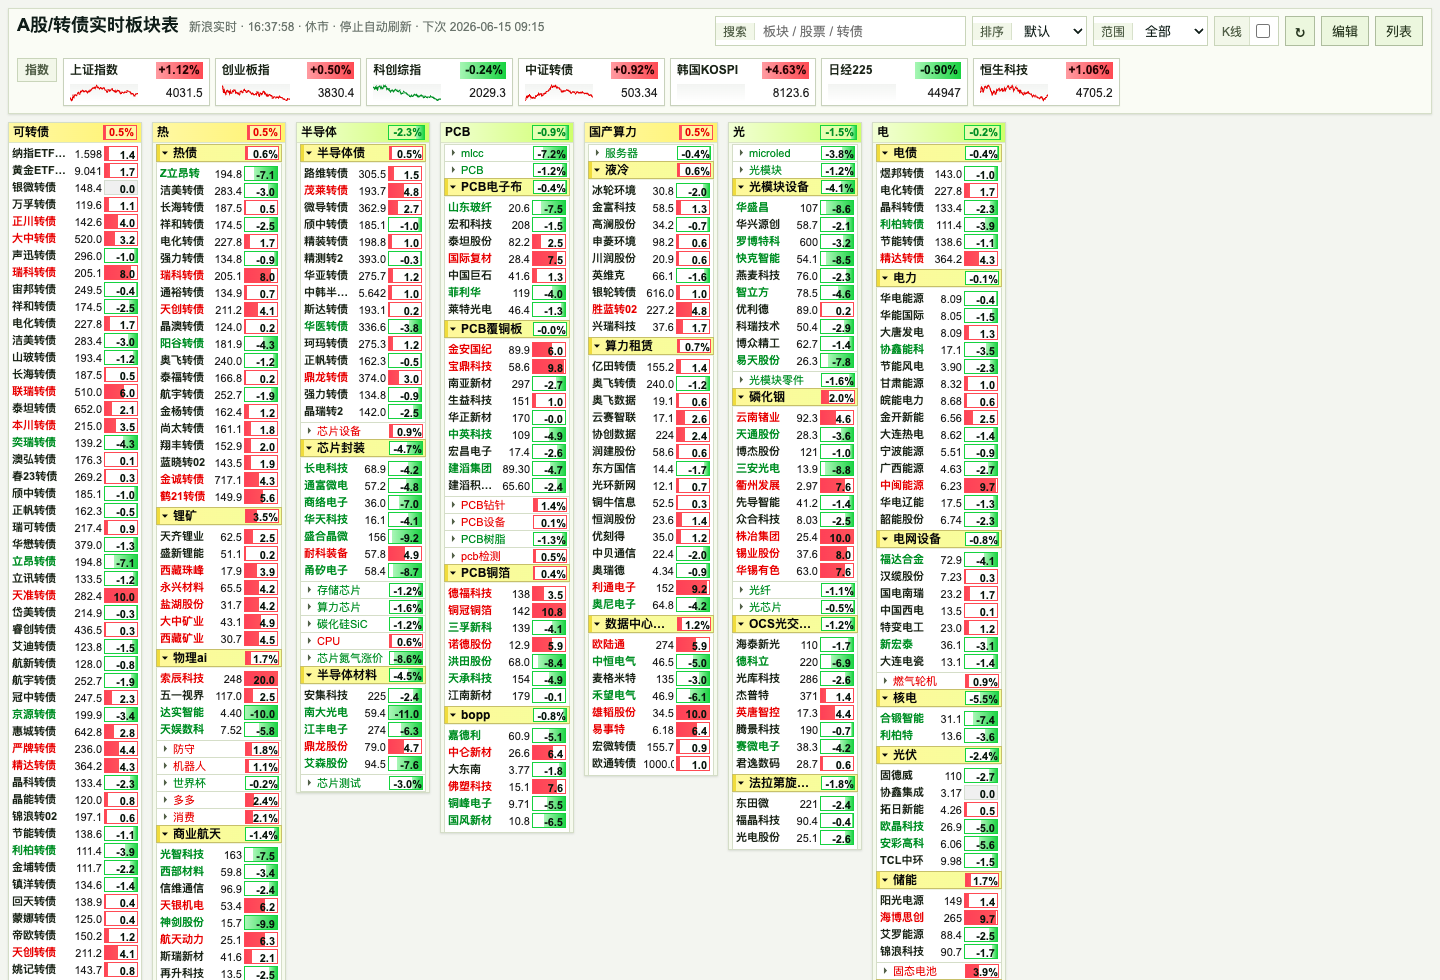
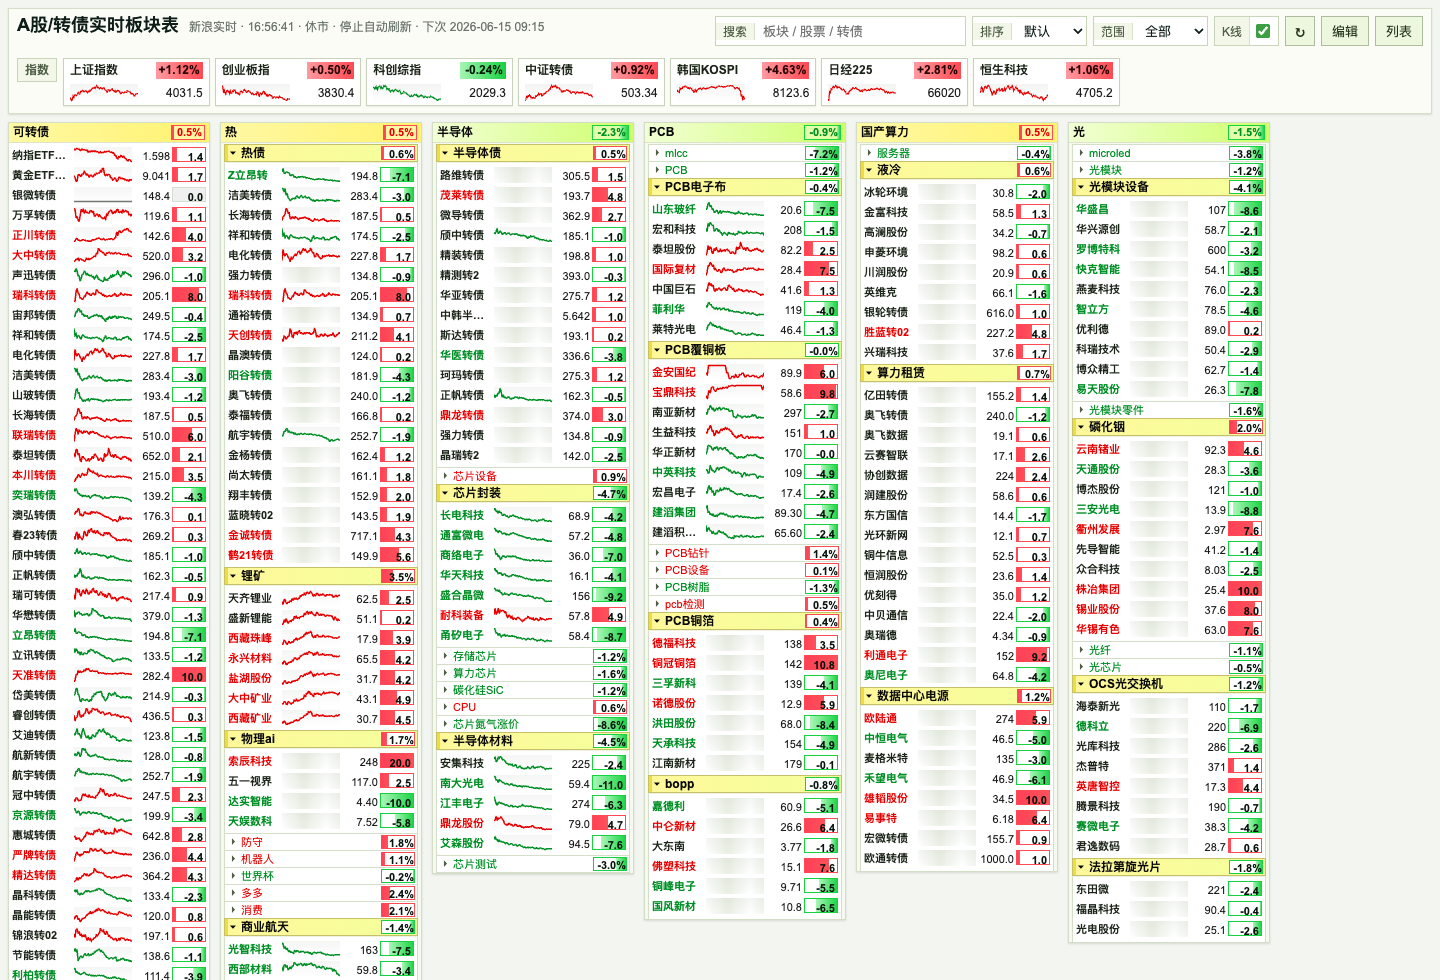
Add global index sparklines

diff --git a/server.js b/server.js
@@ -9,6 +9,7 @@ const LOCAL_A_SHARE_LIST_PATH = path.join(ROOT, "data", "a-share-list.json");
 const BOARD_STATE_PATH = path.join(ROOT, "data", "board-state.json");
 const EASTMONEY_SEARCH_TOKEN = "D43BF722C8E33BD69D955A7E7361F5D9";
 const EASTMONEY_SEARCH_TIMEOUT_MS = 2500;
+const GLOBAL_INDEX_SPARK_CACHE_MS = 60_000;
 const DOMESTIC_INDEXES = [
   { key: "sh000001", name: "上证指数", symbol: "sh000001", secid: "1.000001" },
   { key: "sz399006", name: "创业板指", symbol: "sz399006", secid: "0.399006" },
@@ -22,7 +23,8 @@ const DOMESTIC_INDEXES = [
     source: "tencent",
   },
 ];
-const GLOBAL_INDEX_SYMBOLS = ["b_KOSPI", "int_nikkei", "rt_hkHSTECH"];
+const GLOBAL_INDEX_SYMBOLS = ["b_KOSPI", "b_NKY", "int_nikkei", "rt_hkHSTECH"];
+const globalIndexSparkCache = new Map();
 
 const MIME_TYPES = {
   ".html": "text/html; charset=utf-8",
@@ -373,30 +375,42 @@ async function fetchSinaGlobalIndices() {
     const change = Number(parts[2]);
     const percent = Number(parts[3]);
     if ([price, change, percent].every(Number.isFinite)) {
-      indices.push({
+      const quote = {
         key: "kospi",
         name: "韩国KOSPI",
         price,
         change,
         percent,
-      });
+      };
+      indices.push(
+        await withGlobalIndexSparkline(quote, {
+          yahooSymbol: "^KS11",
+          eastmoneySecid: "100.KS11",
+        }).catch(() => quote),
+      );
     }
   }
 
-  const nikkei = rows.get("int_nikkei");
+  const nikkei = rows.get("b_NKY") || rows.get("int_nikkei");
   if (nikkei) {
     const parts = nikkei.split(",");
     const price = Number(parts[1]);
     const change = Number(parts[2]);
     const percent = Number(parts[3]);
     if ([price, change, percent].every(Number.isFinite)) {
-      indices.push({
+      const quote = {
         key: "nikkei",
         name: "日经225",
         price,
         change,
         percent,
-      });
+      };
+      indices.push(
+        await withGlobalIndexSparkline(quote, {
+          yahooSymbol: "^N225",
+          eastmoneySecid: "100.N225",
+        }).catch(() => quote),
+      );
     }
   }
 
@@ -508,6 +522,103 @@ function parseTencentIndex(raw, config) {
     secid: config.secid,
     time: parts[30] || "",
   };
+}
+
+async function withGlobalIndexSparkline(quote, config) {
+  let spark;
+  try {
+    spark = await withTimeout(fetchCachedYahooIndexSparkline(config.yahooSymbol, 90), 3000);
+  } catch {
+    spark = await withTimeout(fetchEastmoneyMinuteSparkline(config.eastmoneySecid, 90), 3000);
+  }
+
+  return {
+    ...quote,
+    points: spark.points,
+    sparkChange: spark.change,
+    sparkTime: spark.time,
+    sparkSource: spark.source,
+  };
+}
+
+async function fetchCachedYahooIndexSparkline(symbol, limit = 90) {
+  const key = `${symbol}:${limit}`;
+  const cached = globalIndexSparkCache.get(key);
+  if (cached && Date.now() - cached.fetchedAt < GLOBAL_INDEX_SPARK_CACHE_MS) {
+    return cached.spark;
+  }
+
+  const spark = await fetchYahooIndexSparkline(symbol, limit);
+  globalIndexSparkCache.set(key, {
+    fetchedAt: Date.now(),
+    spark,
+  });
+  return spark;
+}
+
+async function fetchYahooIndexSparkline(symbol, limit = 90) {
+  const controller = new AbortController();
+  const timer = setTimeout(() => controller.abort(), 10000);
+  let response;
+  try {
+    response = await fetch(
+      "https://query2.finance.yahoo.com" +
+        `/v8/finance/chart/${encodeURIComponent(symbol)}` +
+        "?range=1d&interval=1m&includePrePost=false",
+      {
+        headers: {
+          accept: "application/json,text/plain,*/*",
+          "user-agent": "Mozilla/5.0",
+        },
+        signal: controller.signal,
+      },
+    );
+  } finally {
+    clearTimeout(timer);
+  }
+
+  if (!response.ok) {
+    throw new Error(`Yahoo index sparkline HTTP ${response.status}: ${symbol}`);
+  }
+
+  const result = (await response.json())?.chart?.result?.[0];
+  const closes = result?.indicators?.quote?.[0]?.close;
+  if (!Array.isArray(closes)) {
+    throw new Error(`empty yahoo index sparkline: ${symbol}`);
+  }
+
+  const points = downsample(
+    closes.filter((value) => Number.isFinite(value) && value > 0),
+    limit,
+  );
+  if (points.length < 2) {
+    throw new Error(`invalid yahoo index sparkline: ${symbol}`);
+  }
+
+  const first = points[0];
+  const last = points[points.length - 1];
+  const timestamps = Array.isArray(result?.timestamp) ? result.timestamp : [];
+  const lastTimestamp = timestamps[timestamps.length - 1];
+
+  return {
+    points,
+    change: first ? ((last - first) / first) * 100 : 0,
+    time: formatUnixTime(lastTimestamp, result?.meta?.exchangeTimezoneName),
+    source: "Yahoo分时",
+  };
+}
+
+function formatUnixTime(seconds, timeZone) {
+  const value = Number(seconds);
+  if (!Number.isFinite(value) || value <= 0) return "";
+  const parts = new Intl.DateTimeFormat("zh-CN", {
+    timeZone: timeZone || "Asia/Shanghai",
+    hour: "2-digit",
+    minute: "2-digit",
+    hour12: false,
+  }).formatToParts(new Date(value * 1000));
+  const map = Object.fromEntries(parts.map((part) => [part.type, part.value]));
+  return `${map.hour || ""}:${map.minute || ""}`;
 }
 
 async function fetchTencentMinuteAmounts(symbol) {
@@ -652,7 +763,7 @@ async function fetchSinaSparkline(secid, limit = 58) {
   };
 }
 
-async function fetchEastmoneyMinuteSparkline(secid) {
+async function fetchEastmoneyMinuteSparkline(secid, limit = 58) {
   const raw = await fetchText({
     hostname: "push2his.eastmoney.com",
     path:
@@ -682,7 +793,7 @@ async function fetchEastmoneyMinuteSparkline(secid) {
     latestTrends
       .map((line) => Number(String(line).split(",")[2]))
       .filter((value) => Number.isFinite(value) && value > 0),
-    58,
+    limit,
   );
   if (points.length < 2) {
     throw new Error(`invalid eastmoney sparkline: ${secid}`);
